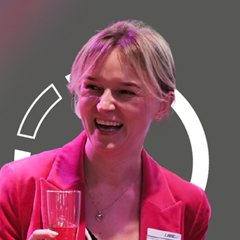
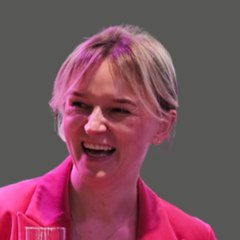
Team: plain portraits for all six from new PNG, drop 'Be part of the circle' headline

diff --git a/src/HomeTab.jsx b/src/HomeTab.jsx
@@ -445,13 +445,10 @@ export function TeamCard({ data, onOpen, isAdmin }) {
           {toggle}
         </div>
       ) : (
-        <div className="relative space-y-1.5">
-          <div className="flex items-center gap-2">
-            <Users className="w-4 h-4" style={{ color: C.gold }} />
-            <Label>{data.label || "Meet the Team"}</Label>
-            {toggle}
-          </div>
-          {data.headline && <p className="text-xl font-extrabold">{data.headline}</p>}
+        <div className="relative flex items-center gap-2">
+          <Users className="w-4 h-4" style={{ color: C.gold }} />
+          <Label>{data.label || "Meet the Team"}</Label>
+          {toggle}
         </div>
       )}
 
@@ -532,7 +529,7 @@ export function TeamDetailView({ data, focusId, onClose }) {
         <div style={{ background: C.surfaceHigh, borderColor: `${C.charcoal}66` }} className="sticky top-0 z-10 border-b px-5 py-4 flex items-start justify-between gap-3">
           <div className="min-w-0 flex-1">
             <Label>{data.label || "Meet the Team"}</Label>
-            <h2 className="text-2xl font-black tracking-tight mt-1 truncate">{data.headline || "Euer Team"}</h2>
+            <h2 className="text-2xl font-black tracking-tight mt-1 truncate">Euer Team</h2>
           </div>
           <button onClick={onClose} className="p-1.5 rounded-lg active:scale-95 shrink-0" style={{ background: `${C.charcoal}55` }}>
             <X className="w-5 h-5" />
@@ -907,7 +904,6 @@ export const INFO_FIELDS = [
 
 export const TEAM_FIELDS = [
   { key: "label", label: "Label (Overline)", placeholder: "z.B. Meet the Team" },
-  { key: "headline", label: "Überschrift", placeholder: "z.B. Be part of the circle." },
   { key: "contactHeadline", label: "Überschrift (Kontakt-Modus)", placeholder: "z.B. Kontaktdaten" },
   { key: "visibility", label: "Anzeige", type: "select", options: [
     { value: "auto", label: "Automatisch (ab Datum Telefonnummern statt Steckbriefe)" },

diff --git a/src/constants.js b/src/constants.js
@@ -142,7 +142,6 @@ export const TEAM_CONTACTS = [...TEAM_MEMBERS];
 
 const TEAM_TILE_DEFAULT = () => ({
   label: "Meet the Team",
-  headline: "Be part of the circle.",
   contactHeadline: "Kontaktdaten",
   // Schlüssel aus Kompatibilität mit gespeicherten Kacheln beibehalten:
   // hideFrom = ab diesem Tag Kontakt-Modus; visibility: auto | show (immer Steckbriefe) | hide (immer Kontakte)
